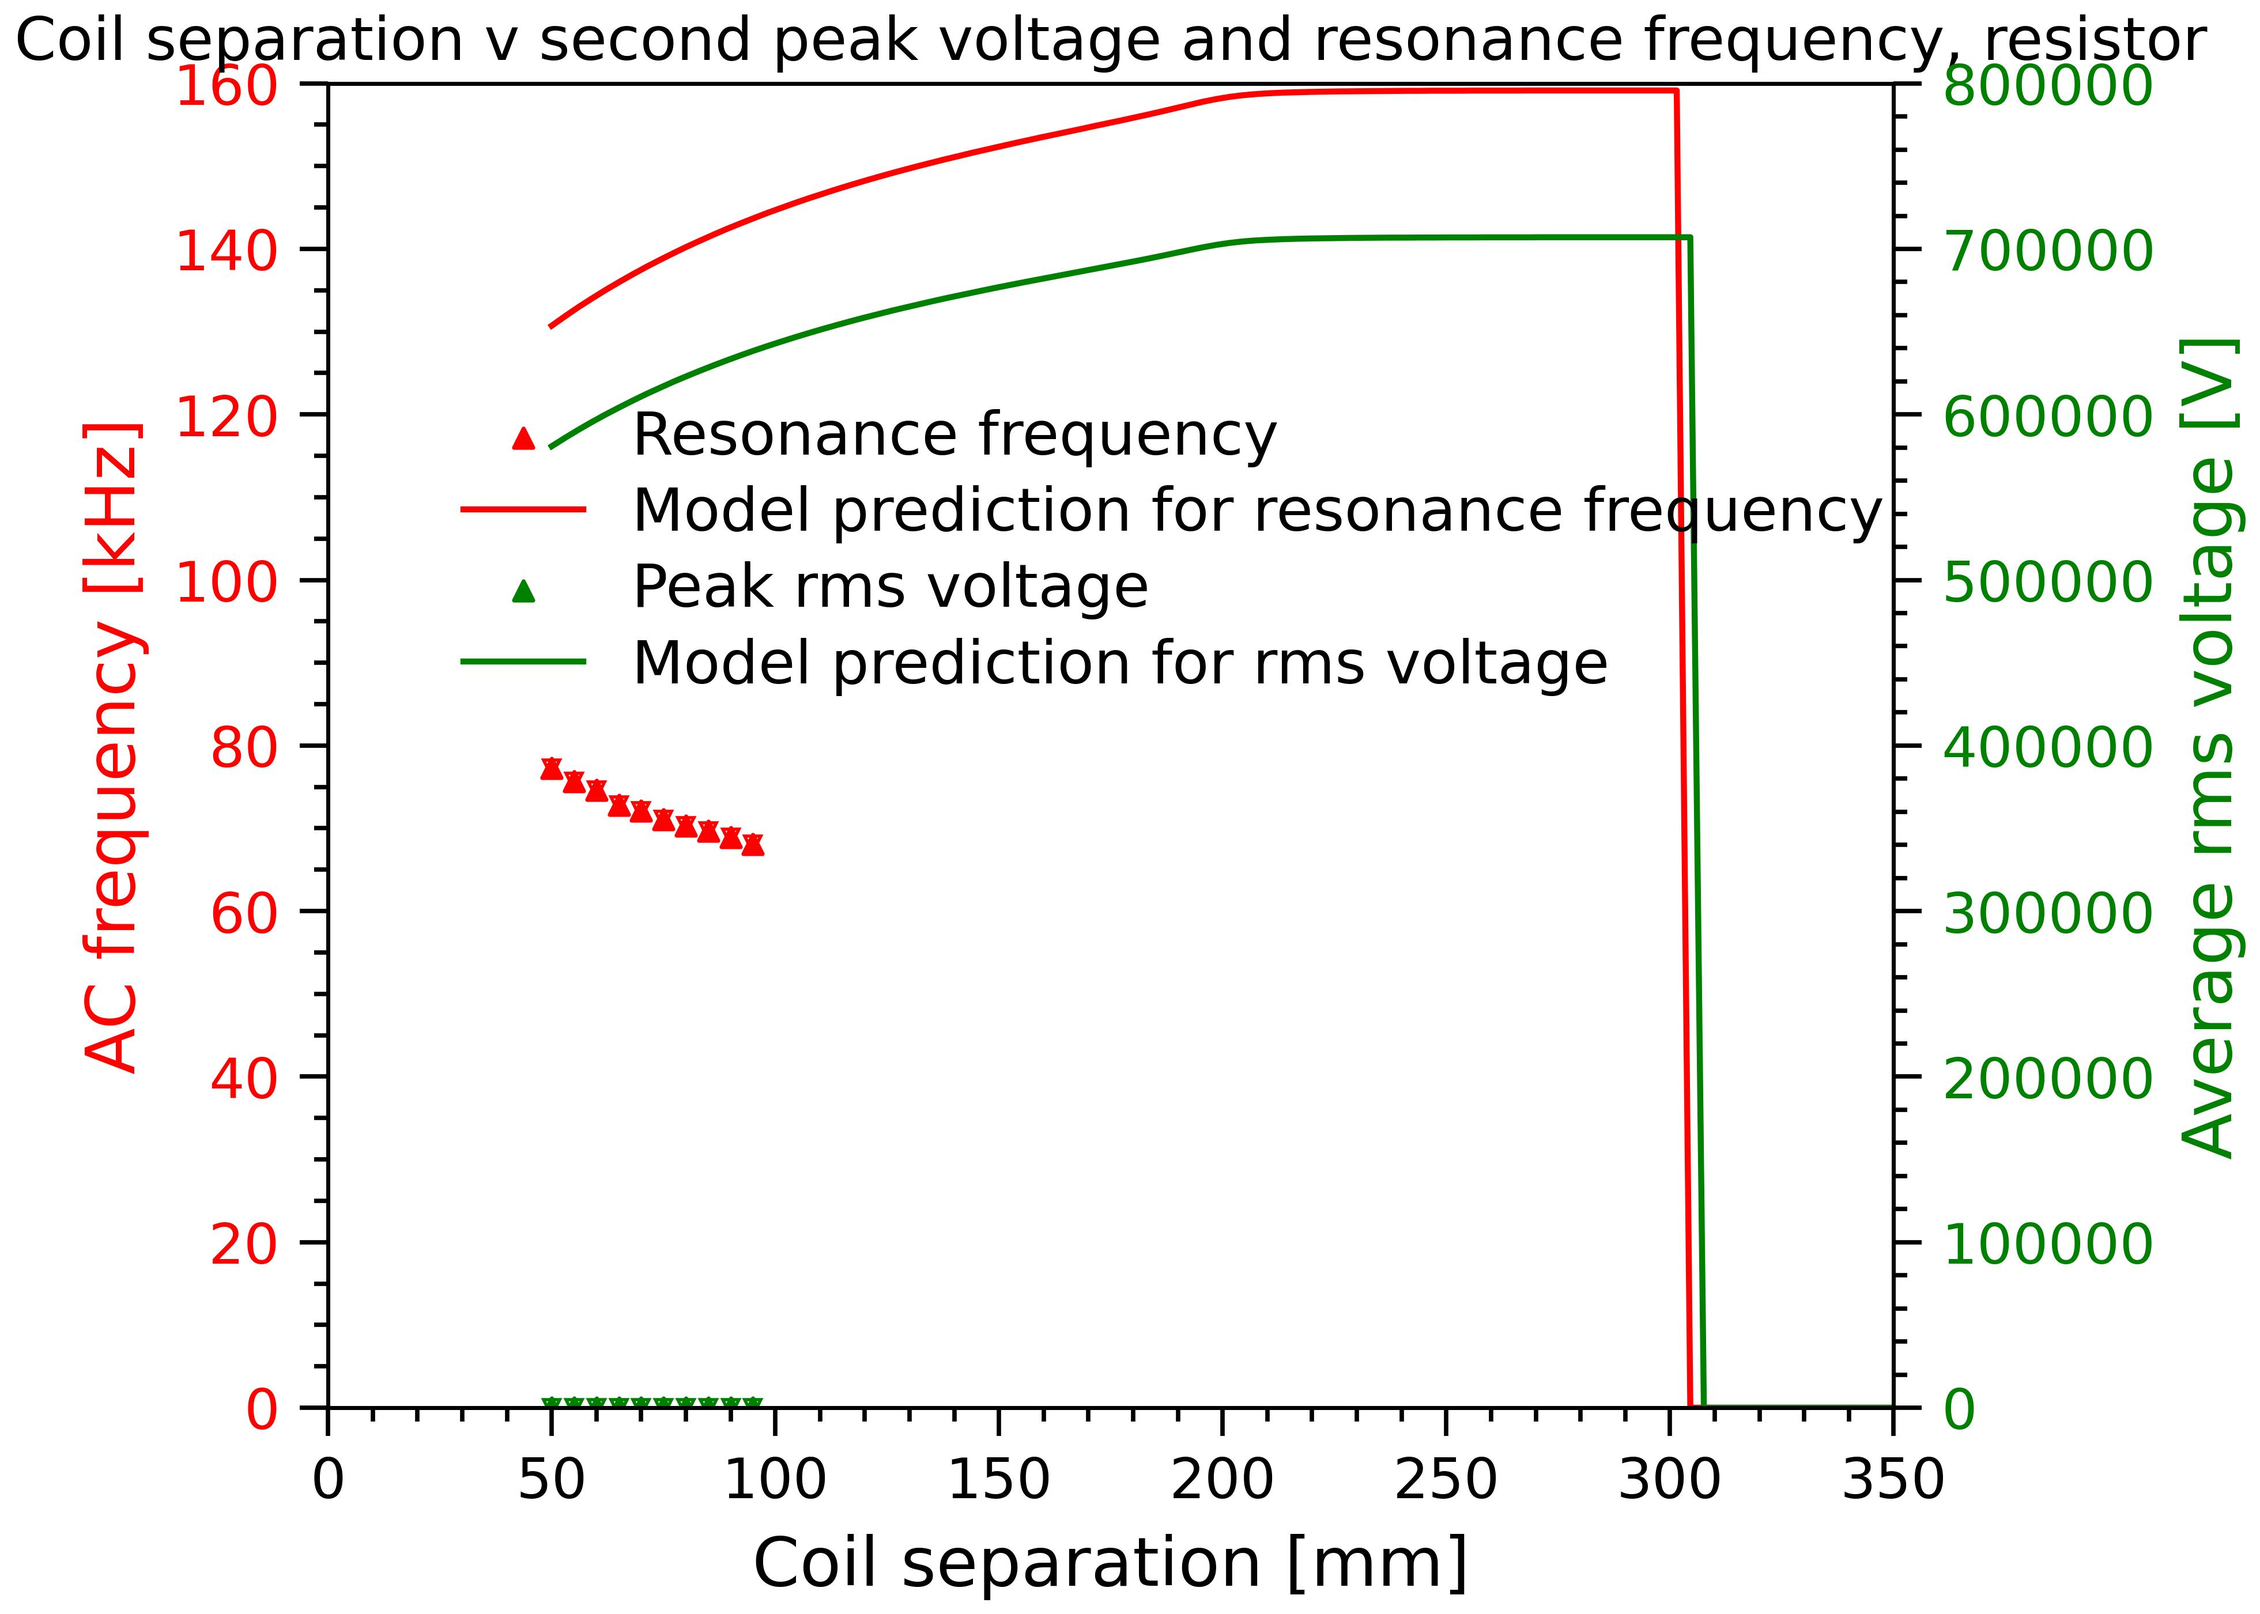
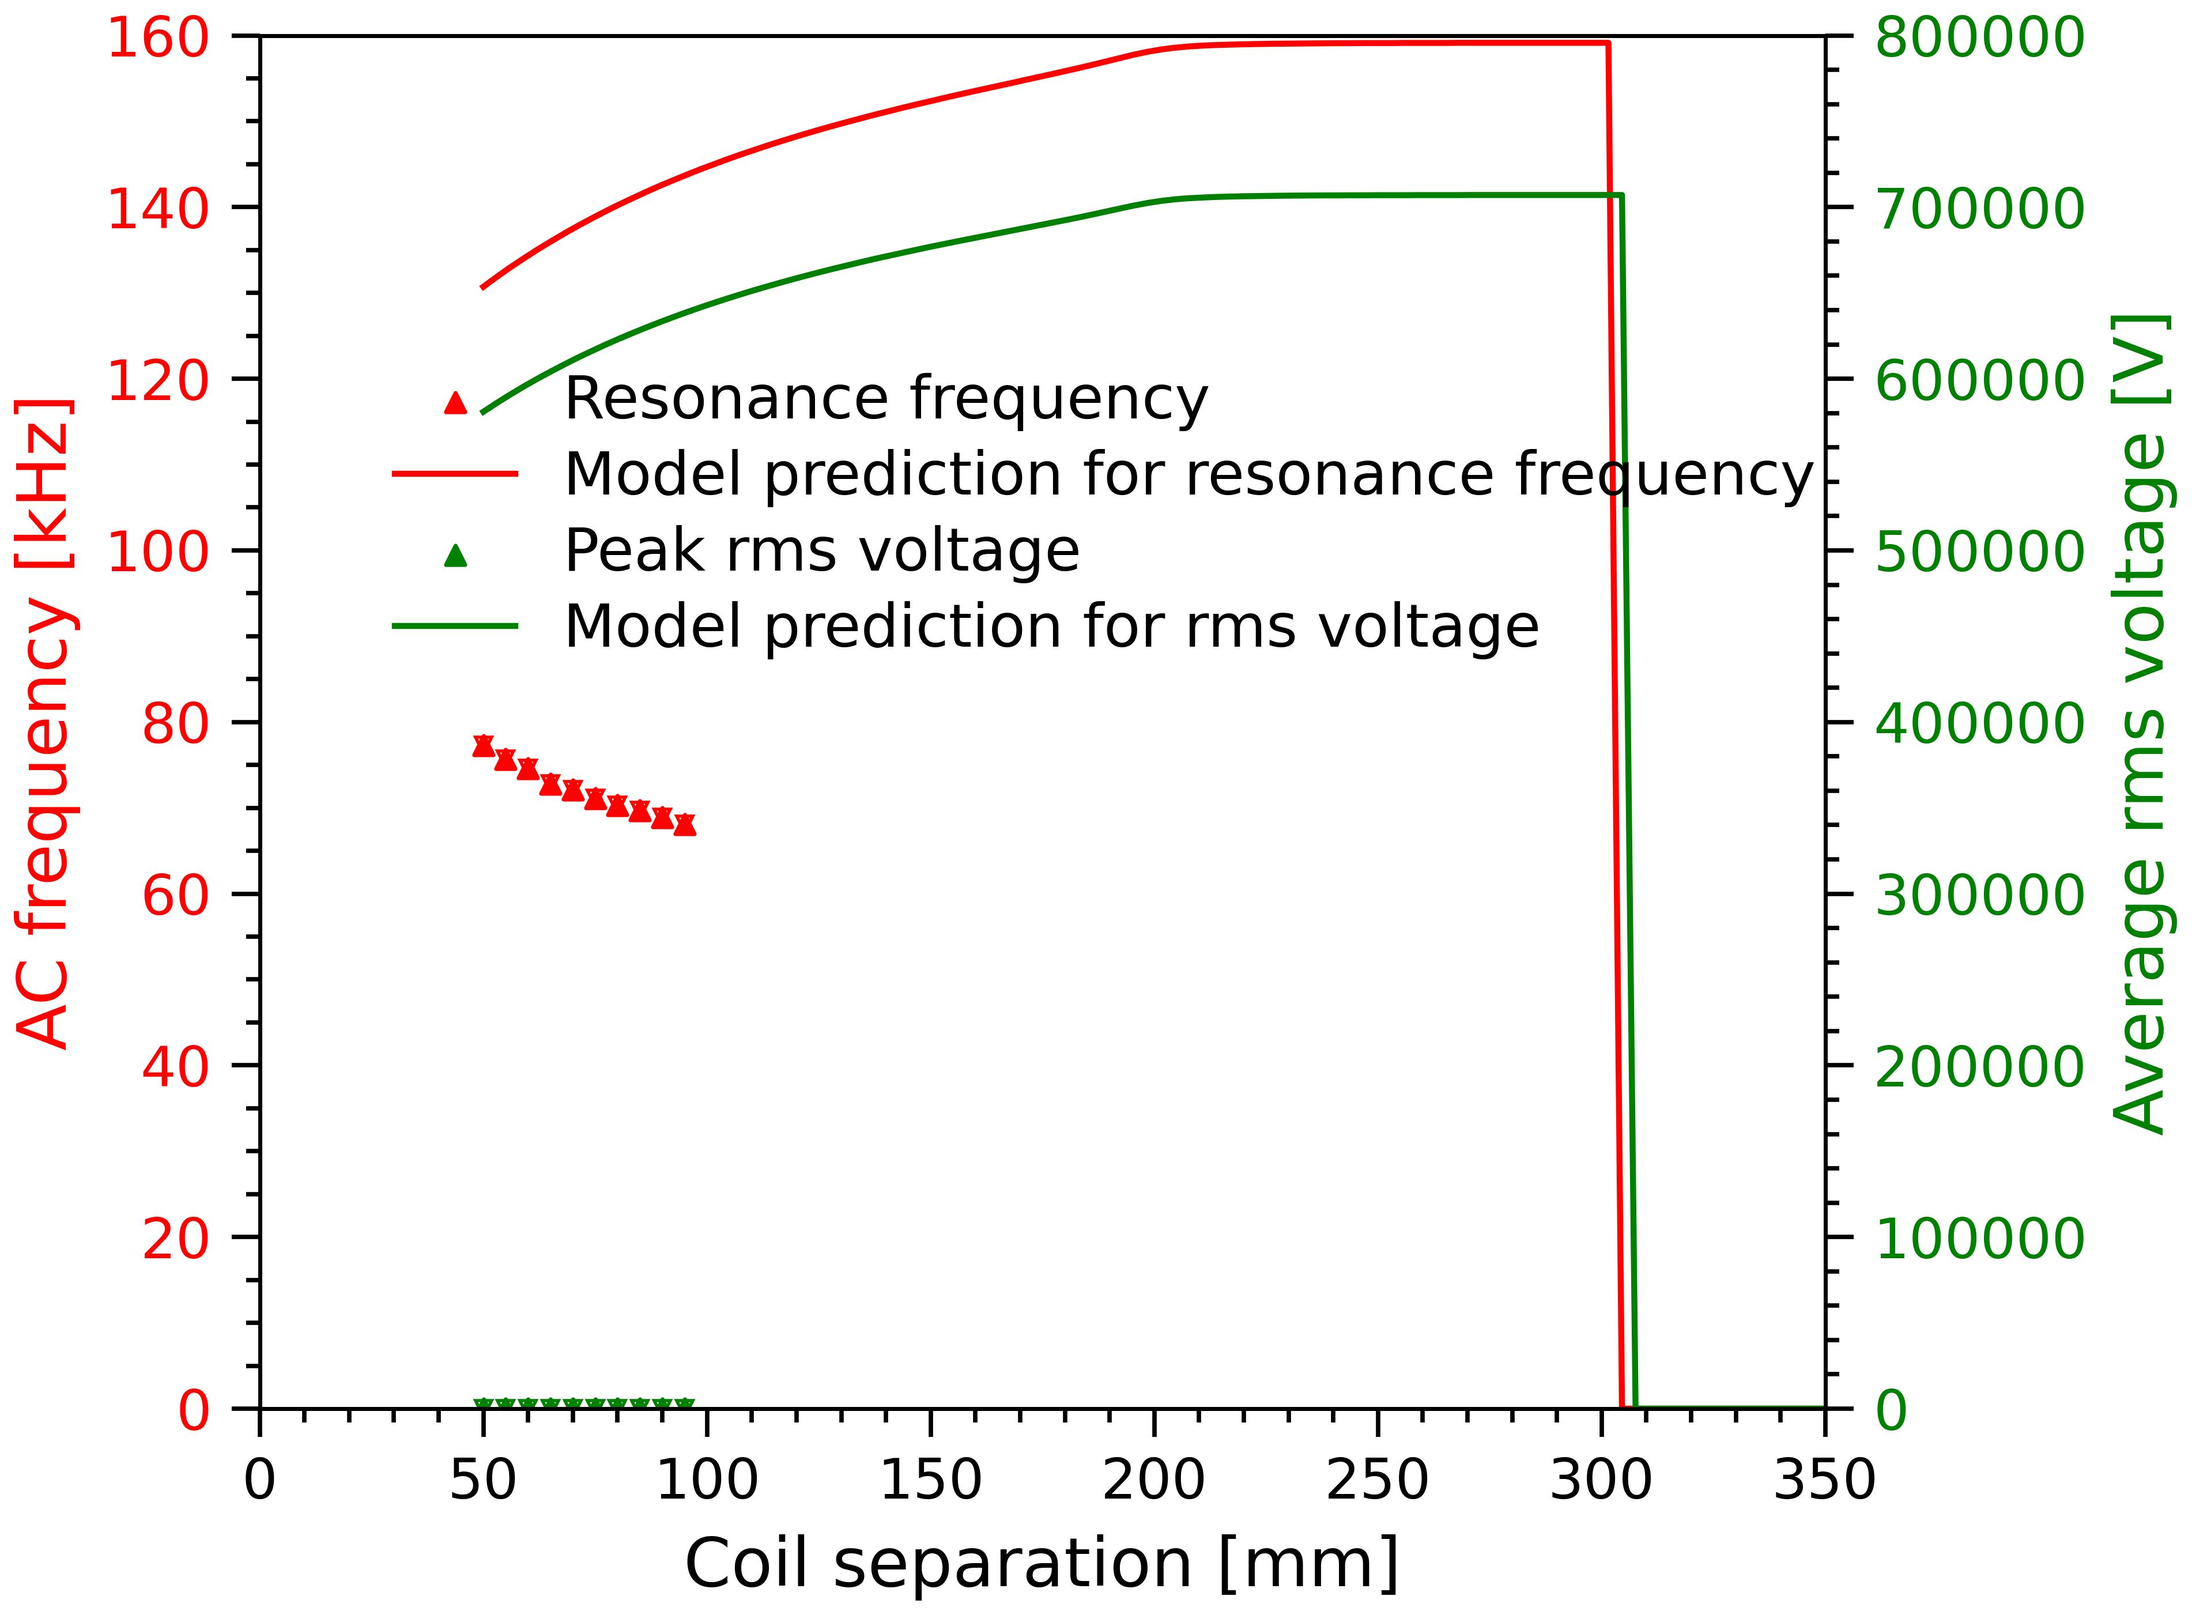
Automatic graph generation

diff --git a/main.py b/main.py
@@ -58,9 +58,9 @@ plt.scatter(xdata, ydata, label='Measurements', c='c', s=15, marker="^")
 plt.xlabel('ω [rad/s]')
 plt.ylabel('Peak voltage [V]')
 plt.legend(loc="upper right", borderaxespad=0.5)
-plt.title("Theoretical model compared with data of frequency versus voltage for a distance of 5 cm")
+# plt.title("Theoretical model compared with data of frequency versus voltage for a distance of 5 cm")
 plt.savefig("Theoretical model compared with data of frequency versus voltage for a distance of 5 cm.jpg", dpi=500)
-plt.show()
+# plt.show()
 
 # Plotting the data vs the predicted values for a distance of 35 cm
 newxqr = np.linspace(newx[0], newx[-1], 10000)
@@ -71,9 +71,9 @@ plt.scatter(newx, newy, label='Measurements', c='c', s=15, marker="^")
 plt.xlabel('ω [rad/s]')
 plt.ylabel('Peak voltage [V]')
 plt.legend(loc="upper right", borderaxespad=0.5)
-plt.title("Theoretical model compared with data of frequency versus voltage for a distance of 35 cm")
+# plt.title("Theoretical model compared with data of frequency versus voltage for a distance of 35 cm")
 plt.savefig("Theoretical model compared with data of frequency versus voltage for a distance of 35 cm.jpg", dpi=500)
-plt.show()
+# plt.show()
 
 # Fitting the data and plotting with the correct resistance for 5 cm
 norespopt, norespcov = curve_fit(functions.voltnores, xdata, ydata, p0=[0.1, 0.1, 1e-10], maxfev=500000)
@@ -81,18 +81,18 @@ norespopt = abs(norespopt)  # making sure the values are positive
 print(
     f"with L1 = {norespopt[0]}±{functions.roundup(np.sqrt(np.diag(norespcov))[0])} H, L2 = {norespopt[1]}±{functions.roundup(np.sqrt(np.diag(norespcov))[1])} H, C1 = {norespopt[2]}±{functions.roundup(np.sqrt(np.diag(norespcov))[2])} F")
 plt.plot(xqr, functions.voltnores(xqr, *norespopt), 'r-', label='Fit with L1 = 0.022±0.004 H, L2 = 0.0913±0.0003 '
-                                                                    'H, C = 1.4±0.2e-10 F')
+                                                                'H, C = 1.4±0.2e-10 F')
 plt.errorbar(xdata, ydata, xerr=xerr, yerr=yerr, c='c')
 plt.scatter(xdata, ydata, label='Measurements', c='c', s=15, marker="^")
 plt.xlabel('ω [rad/s]')
 plt.ylabel('Peak voltage [V]')
 plt.legend(loc="upper right", borderaxespad=0.5)
-plt.title("Fitting the values with the correct resistances for a distance of 5 cm")
+# plt.title("Fitting the values with the correct resistances for a distance of 5 cm")
 plt.savefig("Fitting the values with the correct resistances for a distance of 5 cm.jpg", dpi=500)
-plt.show()
+# plt.show()
 
 # Fitting the data and plotting with the correct resistance for 35 cm
-'''norespopt, norespcov = curve_fit(functions.voltnores35, newx, newy, p0=[0.1, 0.1, 1e-10], maxfev=500000)
+norespopt, norespcov = curve_fit(functions.voltnores35, newx, newy, p0=[0.1, 0.1, 1e-10], maxfev=500000)
 norespopt = abs(norespopt)  # making sure the values are positive
 print(
     f"with L1 = {norespopt[0]}±{functions.roundup(np.sqrt(np.diag(norespcov))[0])} H, L2 = {norespopt[1]}±{functions.roundup(np.sqrt(np.diag(norespcov))[1])} H, C1 = {norespopt[2]}±{functions.roundup(np.sqrt(np.diag(norespcov))[2])} F")
@@ -103,9 +103,9 @@ plt.scatter(newx, newy, label='Measurements', c='c', s=15, marker="^")
 plt.xlabel('ω [rad/s]')
 plt.ylabel('Peak voltage [V]')
 plt.legend(loc="upper right", borderaxespad=0.5)
-plt.title("Fitting the values with the correct resistances for a distance of 35 cm")
+# plt.title("Fitting the values with the correct resistances for a distance of 35 cm")
 plt.savefig("Fitting the values with the correct resistances for a distance of 35 cm.jpg", dpi=500)
-plt.show()'''
+# plt.show()
 
 # Fitting the data for all values for 5 cm
 print(functions.M)
@@ -121,9 +121,9 @@ plt.scatter(xdata, ydata, label='Measurements', c='c', s=15, marker="^")
 plt.xlabel('ω [rad/s]')
 plt.ylabel('Peak voltage [V]')
 plt.legend(loc="upper right", borderaxespad=0.5)
-plt.title("Fitting the values for a distance of 5 cm")
+# plt.title("Fitting the values for a distance of 5 cm")
 plt.savefig("Fitting the values for a distance of 5 cm.jpg", dpi=500)
-plt.show()
+# plt.show()
 a = popt
 # Fitting the data for all values for 35 cm
 functions.M = functions.mutual(0.35)
@@ -139,9 +139,9 @@ plt.scatter(newx, newy, label='Measurements', c='c', s=15, marker="^")
 plt.xlabel('ω [rad/s]')
 plt.ylabel('Peak voltage [V]')
 plt.legend(loc="upper right", borderaxespad=0.5)
-plt.title("Fitting the values for a distance of 35 cm")
+# plt.title("Fitting the values for a distance of 35 cm")
 plt.savefig("Fitting the values for a distance of 35 cm.jpg", dpi=500)
-plt.show()
+# plt.show()
 
 p, = plt.plot(xdata, functions.volt(xdata, *a), 'r-')
 plt.ylim(0, 100)
@@ -155,7 +155,7 @@ def value_update(val):
 
 
 slider.on_changed(value_update)
-plt.show()
+# plt.show()
 
 """popt1, pcov1 = curve_fit(functions.v1dis, xdis, ydis, p0=[5, 0.1, 60, 7, 1e-10], bounds=(0, 70), maxfev=5000)
 errs = np.sqrt(np.diag(abs(pcov1)))
@@ -182,7 +182,7 @@ def newupdate(val):
 plt.xlabel('Distance [cm]')
 plt.ylabel('First peak voltage [V]')
 plt.legend()
-plt.show()"""
+# plt.show()"""
 
 popt1, pcov1 = curve_fit(functions.f1dis, xfr, yfr, p0=[0.04, 0.087, 1067, 1034, 1.128e-10], maxfev=50000)
 errs = np.sqrt(np.diag(abs(pcov1)))
@@ -196,14 +196,22 @@ plt.plot(xfr, functions.f1dis(xfr, 0.1, 0.1, 57, 7, 1e-10), 'g-',
 plt.xlabel('Distance [cm]')
 plt.ylabel('First peak angular frequency [rad/s]')
 plt.legend()
-plt.show()
+# plt.show()
 
 dist = np.linspace(50, 350, 100)
 
-functions.double_plot(nrv_d13, nrf_d13, nrv13, nrf13, nrv_d13_err, nrf_d13_err, nrv13_err, nrf13_err, dist, functions.f1dis(dist / 10, 0.01, 0.01, 57, 7, 1e-10) / (2000 * np.pi), dist, functions.v1dis(dist / 10, 0.01, 0.01, 57, 7, 1e-10) / np.sqrt(2), "first, merged","no resistor")
+functions.double_plot(nrv_d13, nrf_d13, nrv13, nrf13, nrv_d13_err, nrf_d13_err, nrv13_err, nrf13_err, dist,
+                      functions.f1dis(dist / 10, 0.01, 0.01, 57, 7, 1e-10) / (2000 * np.pi), dist,
+                      functions.v1dis(dist / 10, 0.01, 0.01, 57, 7, 1e-10) / np.sqrt(2), "first, merged", "no resistor")
 
-functions.double_plot(bcv_d13, bcf_d13, bcv13, bcf13, bcv_d13_err, bcf_d13_err, bcv13_err, bcf13_err, dist, functions.f1dis(dist / 10, 0.01, 0.01, 57, 1000, 1e-10) / (2000 * np.pi), dist, functions.v1dis(dist / 10, 0.01, 0.01, 57, 1000, 1e-10) / np.sqrt(2), "first, merged","resistor")
+functions.double_plot(bcv_d13, bcf_d13, bcv13, bcf13, bcv_d13_err, bcf_d13_err, bcv13_err, bcf13_err, dist,
+                      functions.f1dis(dist / 10, 0.01, 0.01, 57, 1000, 1e-10) / (2000 * np.pi), dist,
+                      functions.v1dis(dist / 10, 0.01, 0.01, 57, 1000, 1e-10) / np.sqrt(2), "first, merged", "resistor")
 
-functions.double_plot(nrv_d12, nrf_d12, nrv2, nrf2, nrv_d12_err, nrf_d12_err, nrv2_err, nrf2_err, dist, functions.f2dis(dist / 10, 0.01, 0.01, 57, 7, 1e-10) / (2000 * np.pi), dist, functions.v2dis(dist / 10, 0.01, 0.01, 57, 7, 1e-10) / np.sqrt(2),"second", "no resistor")
+functions.double_plot(nrv_d12, nrf_d12, nrv2, nrf2, nrv_d12_err, nrf_d12_err, nrv2_err, nrf2_err, dist,
+                      functions.f2dis(dist / 10, 0.01, 0.01, 57, 7, 1e-10) / (2000 * np.pi), dist,
+                      functions.v2dis(dist / 10, 0.01, 0.01, 57, 7, 1e-10) / np.sqrt(2), "second", "no resistor")
 
-functions.double_plot(bcv_d12, bcf_d12, bcv2, bcf2, bcv_d12_err, bcf_d12_err, bcv2_err, bcf2_err, dist, functions.f1dis(dist / 10, 0.01, 0.01, 57, 1007, 1e-10) / (2000 * np.pi), dist, functions.v1dis(dist / 10, 0.01, 0.01, 57, 1007, 1e-10) / np.sqrt(2), "second", "resistor")
+functions.double_plot(bcv_d12, bcf_d12, bcv2, bcf2, bcv_d12_err, bcf_d12_err, bcv2_err, bcf2_err, dist,
+                      functions.f1dis(dist / 10, 0.01, 0.01, 57, 1007, 1e-10) / (2000 * np.pi), dist,
+                      functions.v1dis(dist / 10, 0.01, 0.01, 57, 1007, 1e-10) / np.sqrt(2), "second", "resistor")

diff --git a/functions.py b/functions.py
@@ -175,7 +175,7 @@ def double_plot(x1, x2, y1, y2, x1err, x2err, y1err, y2err, xfmodel, yfmodel, xv
 
     plt.xticks(fontsize=14)
     plt.xlabel("Coil separation [mm]", fontsize=17)
-    plt.title("Coil separation v " + title + " peak voltage and resonance frequency, " + resistor, fontsize=15)
+    # plt.title("Coil separation v " + title + " peak voltage and resonance frequency, " + resistor, fontsize=15)
 
     ax1 = plt.gca()
     plt.scatter(x2, y2, c='r', label="Resonance frequency", s=23, marker="^")
@@ -194,4 +194,4 @@ def double_plot(x1, x2, y1, y2, x1err, x2err, y1err, y2err, xfmodel, yfmodel, xv
     fig.legend(loc="upper right", bbox_to_anchor=(0.99, 0.75), bbox_transform=ax1.transAxes, fontsize=15)
     plt.tight_layout()
     plt.savefig("Coil separation v " + title + " peak voltage and resonance frequency, " + resistor + ".jpg", dpi=500)
-    plt.show()
+    # plt.show()
